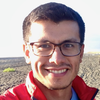
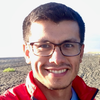
Post: Big Sky Dev Coin (#5)
* Post: Big Sky Dev Coin

Add post with link to Big Sky Dev Con 2018 presentation on building a
blockchain in JavaScript

* fix: rename header file

change file ext from .jpeg to .jpg

* Optimised images with calibre/image-actions

diff --git a/_posts/2018-06-09-what-is-a-blockchain-let-s-build-one-and-find-out.md b/_posts/2018-06-09-what-is-a-blockchain-let-s-build-one-and-find-out.md
@@ -1,0 +1,23 @@
+---
+title: What is a blockchain? Let's build one and find out
+description: A presentation given at Big Sky Dev Con 2018 where I built a rudimental blockchain in JavaScript in order to illustrate the building blocks of a blockchain.
+date: 2018-06-09 00:00 +0000
+header:
+    show_overlay_excerpt: false
+    overlay_image: assets/images/bsdc/header.jpg
+    caption: "Photo by [@BigSkyDevCon](https://twitter.com/BigSkyDevCon/status/1005463822755217413/photo/1)"
+categories:
+    - development
+tags:
+    - blockchain
+    - presentation
+    - javascript
+---
+
+# BSDCoin — Big Sky Dev Coin
+
+<iframe width="560" height="315" src="https://www.youtube-nocookie.com/embed/E7QAkRJMQ5c" frameborder="0" allow="accelerometer; autoplay; encrypted-media; gyroscope; picture-in-picture" allowfullscreen></iframe> 
+
+## Code
+
+You can clone the source code for BSDCoin on [github](https://github.com/theprivileges/BSDCoin)
